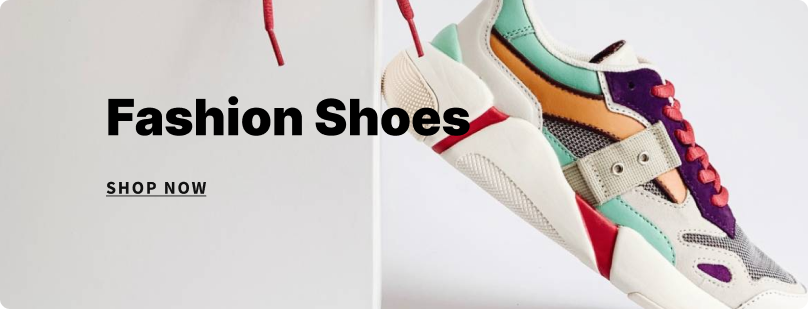
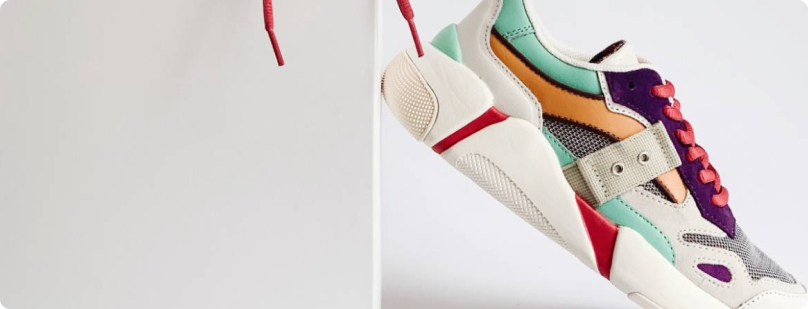
Começando o Box1

Changed region(s): [[0.1238, 0.2913, 0.5879, 0.4369], [0.1238, 0.5825, 0.2785, 0.6408]]

diff --git a/src/App.js b/src/App.js
@@ -8,11 +8,11 @@ import styled from './App.module.scss';
 function App() {
   return (
     <div id={styled.page}>
-      <header>
-        <div className={styled.conteudo}>
+      <div className={styled.conteudo}>
+        <header>
           <div className={styled.divEsq}>
-            <img src='/images/Stylish.png' width='134' height='59' />
-            <img src='/images/embaixoDoLogo.png' wdtch='133' height='20' />
+            <img src='/images/Stylish.png' width='134' height='49' />
+            <img src='/images/embaixoDoLogo.png' width='133' height='13' />
           </div>
           <nav>
             <ul>
@@ -23,12 +23,19 @@ function App() {
               <li>Collections</li>
               <li>Sale</li>
               <li>Blog</li>
-              <li><img src='/images/carrinho.png' widtc='24' height='24' /></li>
-              <li><img src='/images/sacola.png' widtc='24' height='24' /></li>
+              <li><img src='/images/sacola.png' width='24' height='24' /></li>
+              <li><img src='/images/carrinho.png' width='24' height='24' /></li>
             </ul>
           </nav>
+        </header>
+        <div id={styled.box1}>
+          <img src='/images/FotoBox1.png' width='837' height='722' />
+          <div>
+            <img src='/images/Foto2Box1.png' width='808' height='342' />
+            <img src='/images/Foto3Box1.png' width='808' height='309' />
+          </div>
         </div>
-      </header>
+      </div>
     </div>
   );
 }

diff --git a/src/App.module.scss b/src/App.module.scss
@@ -1,5 +1,4 @@
 #page,
-header,
 footer {
   display: flex;
   flex-direction: column;
@@ -7,7 +6,10 @@ footer {
 }
 
 .conteudo {
-  width: 1709px;
+  max-width: 1600px;
+  width: 90%;
+  // conta no css = width: calc(100% - 30px);
+
 }
 
 ul {
@@ -19,37 +21,47 @@ ul {
 header {
   display: flex;
   height: 174px;
+  width: 100%;
+  align-items: center;
+  justify-content: space-between;
 
-  .conteudo {
-    display: flex;
-    height: 100%;
-    align-items: center;
-    justify-content: space-between;
-
-  }
 
   nav {
     display: inline-block;
-    width: 470px;
 
-    ul li {
-      display: inline-block;
-      margin: 0, 30px;
-      //esta com problema!!!
+    ul {
+      display: flex;
 
-      &:last-of-type {
-        margin-right: 0px;
-      }
+      li {
+        display: inline-block;
+        margin: 0 15px;
 
-      &:first-of-type {
-        margin-left: 0px;
+
+        &:last-of-type {
+          margin-right: 0px;
+        }
+
+        &:first-of-type {
+          margin-left: 0px;
+        }
       }
     }
   }
 
   .divEsq {
-    display: flex;
-    height: 100%;
-    align-items: center;
+    img {
+      display: block;
+    }
   }
+}
+
+#box1 {
+  display: flex;
+
+  div {
+    display: flex;
+    flex-direction: column;
+    justify-content: space-between;
+  }
+
 }
